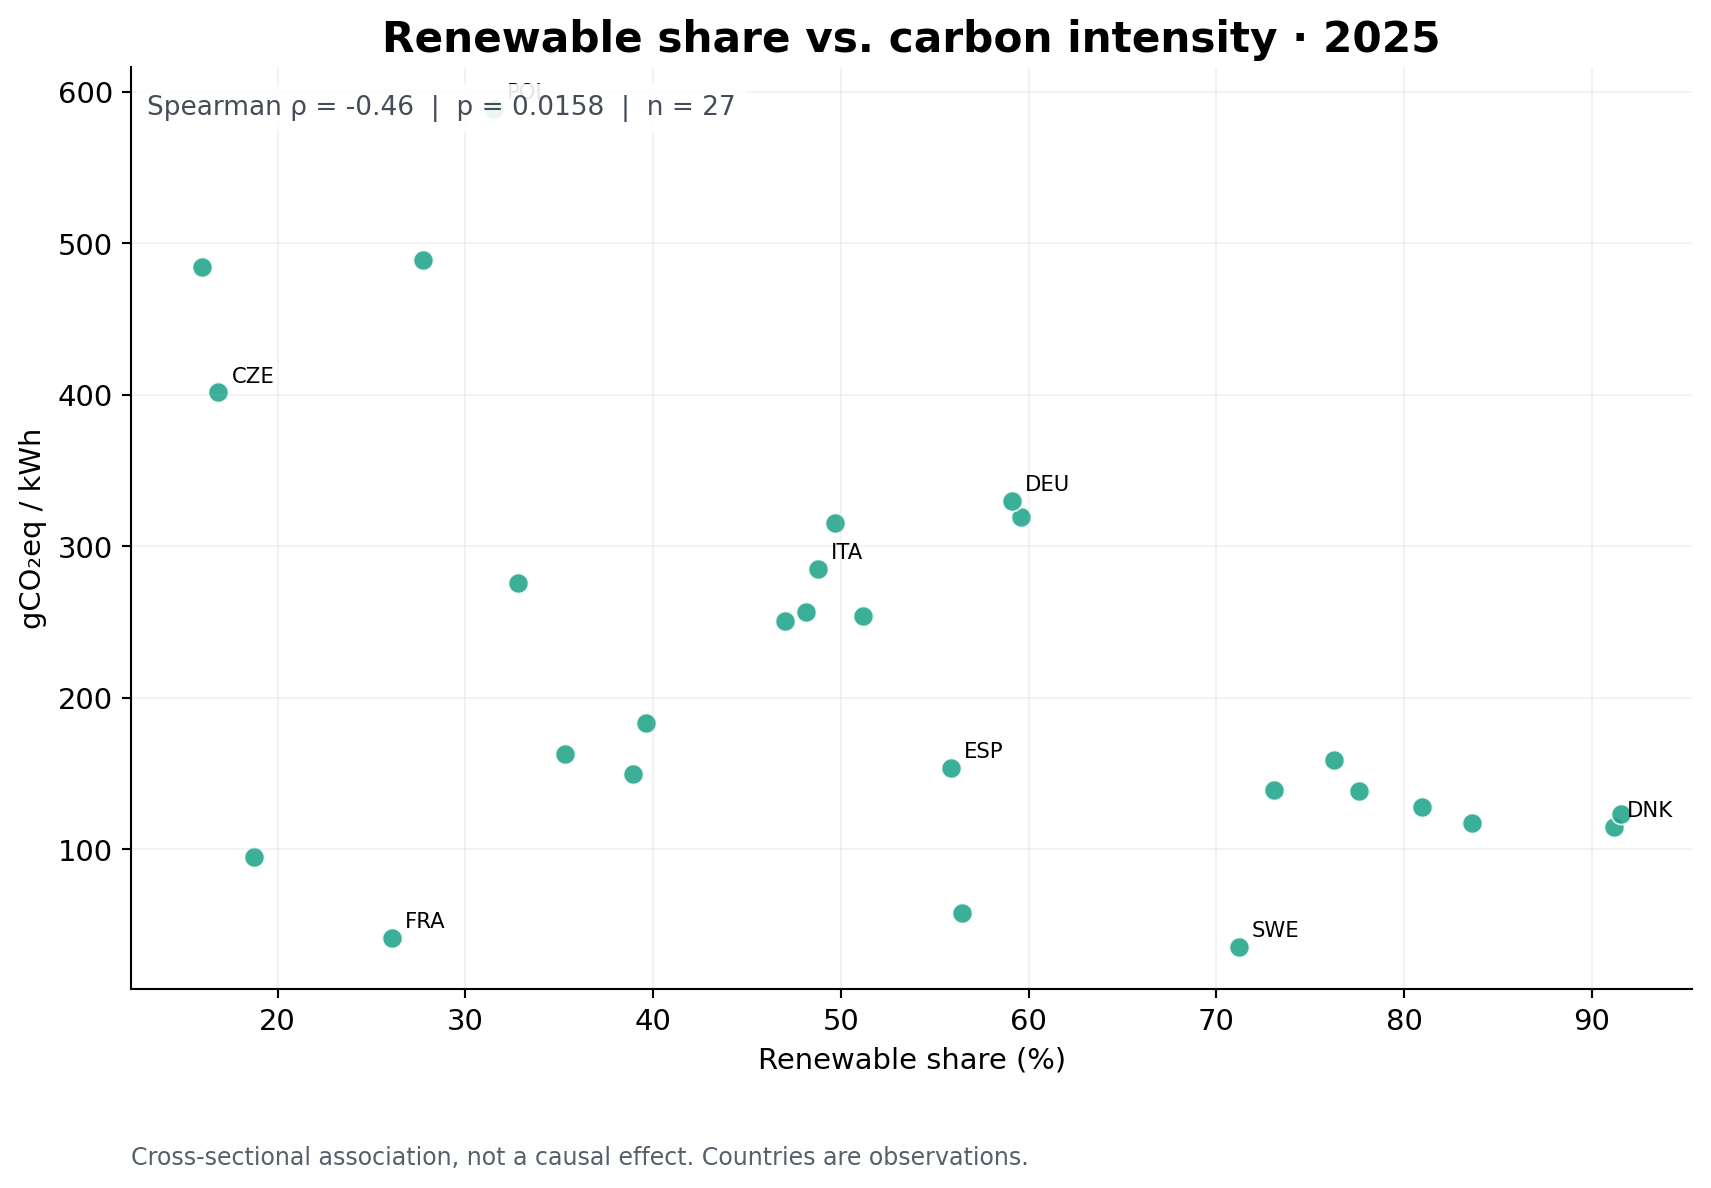
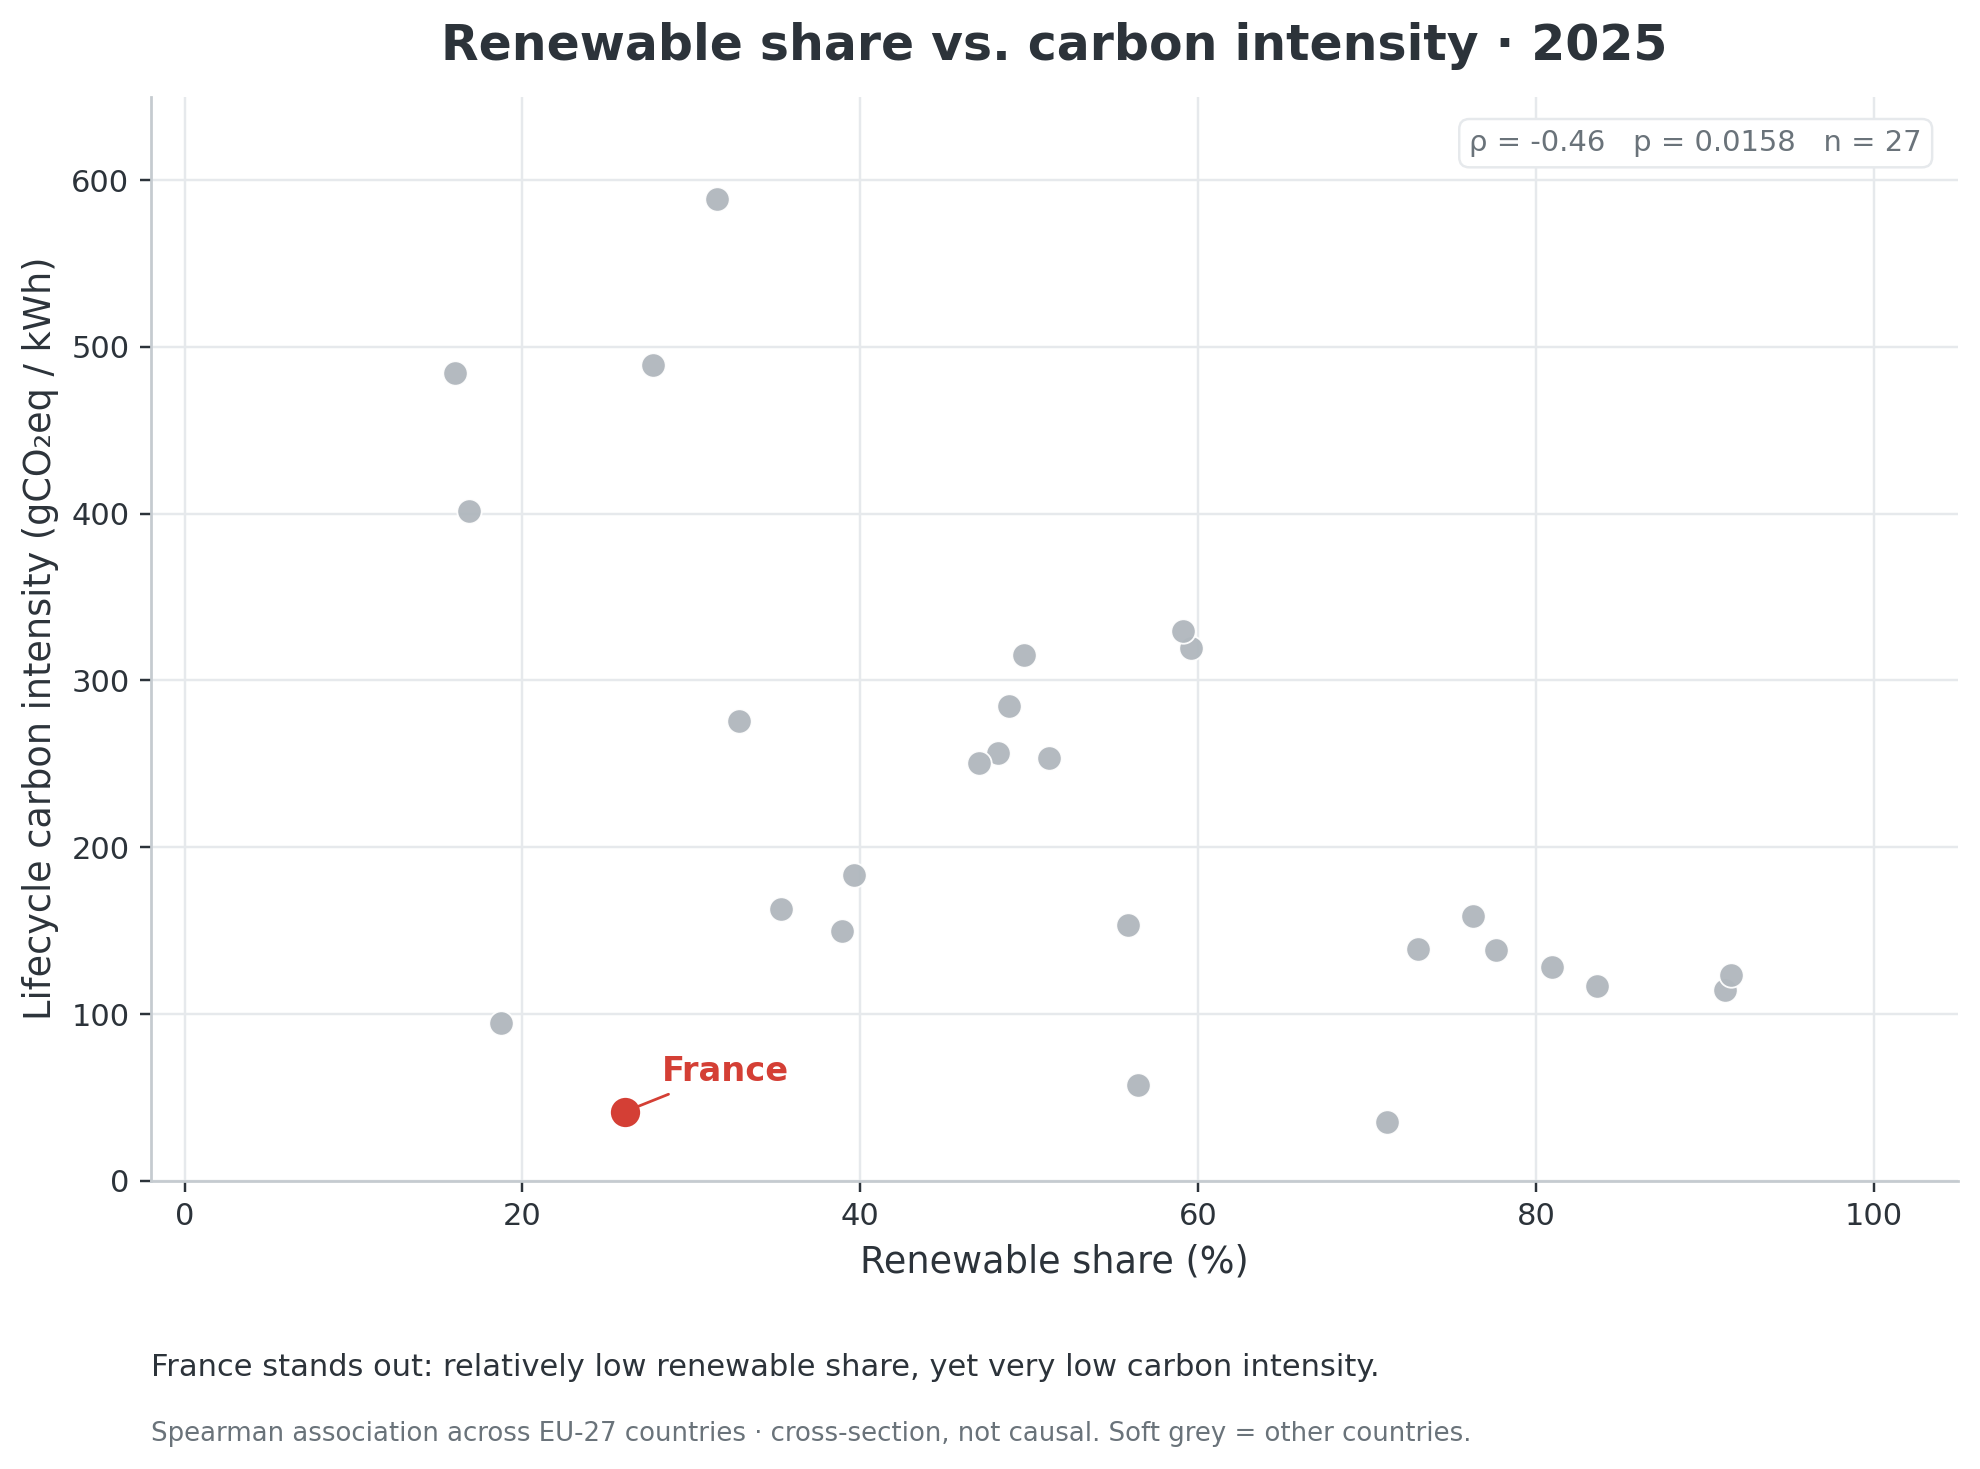
Update 2025 figures

diff --git a/analysis.py b/analysis.py
@@ -74,8 +74,8 @@ def download_data() -> Path:
     return path
 
 
-def save_chart(fig, filename: str):
-    fig.savefig(FIG / filename, dpi=190, bbox_inches='tight', facecolor='white')
+def save_chart(fig, filename: str, dpi: int = 190):
+    fig.savefig(FIG / filename, dpi=dpi, bbox_inches='tight', facecolor='white')
     plt.close(fig)
 
 
@@ -150,30 +150,67 @@ def generate(df: pd.DataFrame, year: int) -> None:
         ax.text(min(val + 1, 100), i, f'{val:.0f}%', va='center', fontsize=8)
     save_chart(fig, '03_low_carbon_ranking.png')
 
-    # Figure 4 - compare what correlates with carbon intensity, using two scatters.
+    # Figures 04–05: Spearman associations; visual emphasis on France (same stats as before).
     stats = {}
-    for key, label, out_name in [
-        ('renew','Renewable share','04_renewables_vs_intensity.png'),
-        ('lowcarbon','Low-carbon share (renewables + nuclear)','05_lowcarbon_vs_intensity.png')]:
-        paired = year_data.dropna(subset=[C[key],C['intensity']]).copy()
+    scatter_specs = [
+        ('renew', 'Renewable share', '04_renewables_vs_intensity.png',
+         'France stands out: relatively low renewable share, yet very low carbon intensity.'),
+        ('lowcarbon', 'Low-carbon share (renewables + nuclear)', '05_lowcarbon_vs_intensity.png',
+         'When nuclear is included, France moves into the high low-carbon share region.'),
+    ]
+    point_grey, france_red, ink, mute = '#B0B7BD', '#D43F35', '#2C333A', '#6A737A'
+    for key, label, out_name, narrative in scatter_specs:
+        paired = year_data.dropna(subset=[C[key], C['intensity']]).copy()
         r, p = spearmanr(paired[C[key]], paired[C['intensity']]) if len(paired) >= 5 else (math.nan, math.nan)
-        stats[key] = {'n':int(len(paired)), 'spearman_rho':float(r), 'p_value':float(p)}
-        fig, ax = plt.subplots(figsize=(10.6, 6.3))
-        ax.scatter(paired[C[key]], paired[C['intensity']], s=58,
-                   c=COLORS['lowcarbon'] if key=='lowcarbon' else COLORS['renew'],
-                   alpha=.84, edgecolor='white', linewidth=.7)
-        for _, row in paired.iterrows():
-            if row['iso_code'] in {'FRA','DEU','ITA','ESP','SWE','POL','DNK','CZE'}:
-                ax.annotate(row['iso_code'],(row[C[key]],row[C['intensity']]),
-                            xytext=(5,4),textcoords='offset points',fontsize=8)
-        ax.set(title=f'{label} vs. carbon intensity · {year}',
-               xlabel=f'{label} (%)', ylabel='gCO₂eq / kWh')
-        ax.text(.01,.97, f'Spearman ρ = {r:.2f}  |  p = {p:.3g}  |  n = {len(paired)}',
-                transform=ax.transAxes, va='top', fontsize=10, color='#454c58',
-                bbox=dict(facecolor='white', edgecolor='none', alpha=.9))
-        ax.text(0,-.19,'Cross-sectional association, not a causal effect. Countries are observations.',
-                transform=ax.transAxes, fontsize=9, color='#56606b')
-        save_chart(fig,out_name)
+        stats[key] = {'n': int(len(paired)), 'spearman_rho': float(r), 'p_value': float(p)}
+
+        others = paired.loc[paired['iso_code'] != 'FRA']
+        fra = paired.loc[paired['iso_code'] == 'FRA']
+
+        fig, ax = plt.subplots(figsize=(10.6, 6.4))
+        ax.set_facecolor('white')
+        fig.patch.set_facecolor('white')
+        ax.grid(True, color='#E6E9EC', linewidth=0.8, alpha=1.0, zorder=0)
+        ax.set_axisbelow(True)
+
+        ax.scatter(others[C[key]], others[C['intensity']],
+                   s=64, c=point_grey, alpha=0.95, edgecolors='white', linewidths=0.6,
+                   zorder=3, label='Other EU-27 countries')
+        if len(fra):
+            ax.scatter(fra[C[key]], fra[C['intensity']],
+                       s=110, c=france_red, alpha=1.0, edgecolors='white', linewidths=0.9,
+                       zorder=4, label='France')
+            fx, fy = float(fra.iloc[0][C[key]]), float(fra.iloc[0][C['intensity']])
+            ax.annotate(
+                'France', xy=(fx, fy), xytext=(12, 10), textcoords='offset points',
+                fontsize=11, fontweight='bold', color=france_red,
+                arrowprops=dict(arrowstyle='-', color=france_red, lw=0.9, shrinkA=0, shrinkB=4),
+                zorder=5,
+            )
+
+        ax.set_xlim(-2, 105)
+        ymax = max(650, float(paired[C['intensity']].max()) * 1.08)
+        ax.set_ylim(0, ymax)
+        ax.set_title(f'{label} vs. carbon intensity · {year}', color=ink, pad=12)
+        ax.set_xlabel(f'{label} (%)', color=ink, fontsize=12)
+        ax.set_ylabel('Lifecycle carbon intensity (gCO₂eq / kWh)', color=ink, fontsize=12)
+        ax.tick_params(colors=ink, labelsize=10)
+        for spine in ('left', 'bottom'):
+            ax.spines[spine].set_color('#C5CBD0')
+            ax.spines[spine].set_linewidth(0.9)
+
+        ax.text(
+            0.98, 0.97, f'ρ = {r:.2f}   p = {p:.3g}   n = {len(paired)}',
+            transform=ax.transAxes, ha='right', va='top', fontsize=9.5, color=mute,
+            bbox=dict(boxstyle='round,pad=0.35', facecolor='white', edgecolor='#E6E9EC', linewidth=0.8),
+        )
+        ax.text(0, -0.18, narrative, transform=ax.transAxes, fontsize=10, color=ink)
+        ax.text(
+            0, -0.24,
+            'Spearman association across EU-27 countries · cross-section, not causal. Soft grey = other countries.',
+            transform=ax.transAxes, fontsize=8.5, color=mute,
+        )
+        save_chart(fig, out_name, dpi=220)
 
     # Figure 5 - 100% mix by source, missing excluded, remainder shown explicitly.
     mixes = year_data.dropna(subset=[C['renew'],C['nuclear'],C['fossil']]).copy()
